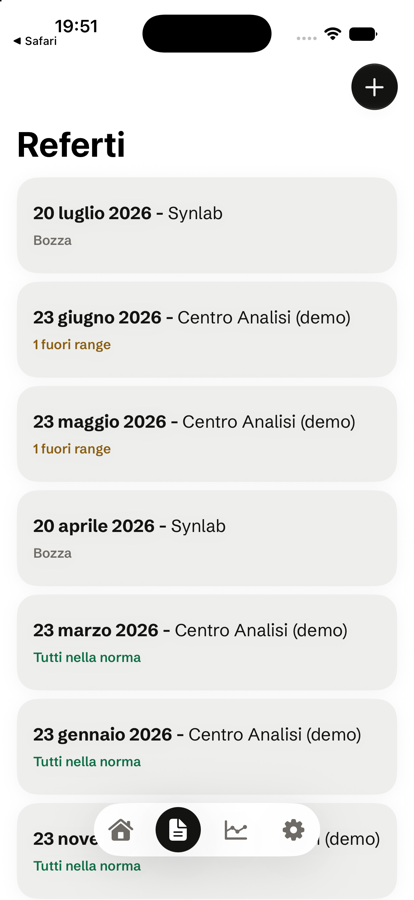
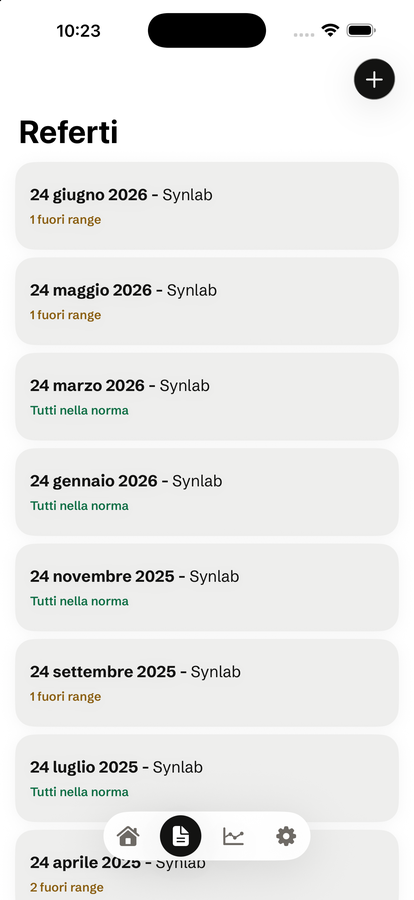
Fix mobile navbar overlap + adopt Quillino's device frame
- Nav: theme toggle moves to a fixed FAB on mobile instead of colliding
  with the CTA button; fix hamburger menu (JS/CSS class mismatch meant
  it never opened).
- .device frame: content-box + 5px bezel + fixed border, matching the
  Quillino site instead of the thicker overflow:hidden version.
- Regenerate embedded screenshots with clean mock data (no more "(demo)").

diff --git a/styles.css b/styles.css
@@ -120,6 +120,11 @@ ul, ol { padding: 0; list-style: none; }
   :root:not([data-theme]) .ico-sun { display: block; }
 }
 .nav-toggle { display: none; background: none; border: 0; color: var(--text-primary); cursor: pointer; }
+/* FAB: solo mobile (< 860px) — sul nav-cta stretto il toggle in linea si scontrava con il
+   bottone "Scarica la beta" (fix 2026-07, "la navbar è rotta"). Stesso pattern di Quillino:
+   il toggle inline sparisce sotto la soglia e un secondo bottone identico (`.theme-fab`,
+   marcato in HTML fuori dal nav) prende il suo posto come cerchio flottante in basso a destra. */
+.theme-fab { display: none; }
 
 /* --------------------------------------------------------------- Buttons */
 .btn {
@@ -149,26 +154,26 @@ ul, ol { padding: 0; list-style: none; }
 .hero-reassure { margin-top: 16px; display: flex; align-items: center; gap: 8px; font-size: 14px; color: var(--text-tertiary); }
 .hero-reassure svg { color: var(--accent-green); flex: none; }
 
-/* `overflow: hidden` + immagine assoluta con `inset` (fix "il contenuto esce dagli iphone"):
-   prima l'immagine era un figlio normale al 100%/100% dentro un `.device` a `content-box` con
-   `aspect-ratio` + `padding` insieme — combinazione fragile, alcuni motori calcolano l'altezza
-   del content-box in modo lievemente diverso e lo screenshot sborda oltre la cornice arrotondata.
-   Con `overflow: hidden` sulla cornice nulla può più uscirne, qualunque sia il calcolo esatto. */
+/* Stesso schema del sito Quillino (frame giudicato meglio riuscito): `box-sizing: content-box`
+   contro il reset globale border-box così `aspect-ratio` descrive l'area DENTRO il padding (dove
+   vive lo screenshot) — padding/bordo si aggiungono fuori, niente calcolo bordo/content-box misto
+   che aveva causato "il contenuto esce dagli iphone" nella versione precedente. Bezel sottile
+   (5px, non 10px): un bordo spesso è stato bocciato più volte su Quillino come "troppo chunky".
+   Bordo fisso rgba(255,255,255,0.22) (non da var tema): resta leggibile anche quando lo
+   screenshot dentro è in dark mode e quasi nero quanto la cornice stessa. */
 .device {
-  position: relative;
-  width: 100%; max-width: 280px;
+  position: relative; box-sizing: content-box;
+  width: 100%; max-width: calc(280px - 10px);
   aspect-ratio: 1206 / 2622;
   background: #0b0a0a;
-  border-radius: 44px;
-  border: 1px solid var(--border-strong);
+  border-radius: 44px; padding: 5px;
+  border: 1px solid rgba(255,255,255,0.22);
   box-shadow: var(--shadow-float);
   margin: 0 auto;
-  overflow: hidden;
 }
 .device img {
-  position: absolute; inset: 10px;
-  width: calc(100% - 20px); height: calc(100% - 20px);
-  object-fit: cover; border-radius: 36px;
+  width: 100%; height: 100%;
+  object-fit: cover; border-radius: 40px;
 }
 .hero-media { display: flex; justify-content: center; }
 
@@ -272,6 +277,18 @@ ul, ol { padding: 0; list-style: none; }
   .steps { grid-template-columns: 1fr; }
   .feat-grid { grid-template-columns: 1fr; }
   .nav-links { display: none; }
+  .nav-cta .theme-toggle:not(.theme-fab) { display: none; }
+  .nav-toggle { display: inline-flex; }
+  .theme-fab {
+    display: inline-grid; position: fixed; z-index: 60;
+    right: 18px; bottom: calc(18px + env(safe-area-inset-bottom));
+    width: 52px; height: 52px; box-shadow: var(--shadow-float);
+  }
+  .nav.menu-open .nav-links {
+    display: flex; position: absolute; top: 68px; left: 0; right: 0; flex-direction: column;
+    gap: 4px; padding: 12px 20px 20px; background: var(--bg-primary); border-bottom: 1px solid var(--border-default);
+  }
+  .nav.menu-open .nav-links a { padding: 10px 0; font-size: 17px; }
 }
 
 @media (prefers-reduced-motion: reduce) {

diff --git a/script.js b/script.js
@@ -25,13 +25,16 @@ document.getElementById('year').textContent = new Date().getFullYear();
 
 // ------------------------------------------------------------- Tema chiaro/scuro
 const root = document.documentElement;
-const themeToggle = document.getElementById('themeToggle');
-themeToggle?.addEventListener('click', () => {
+function toggleTheme() {
   const current = root.getAttribute('data-theme') || (matchMedia('(prefers-color-scheme: dark)').matches ? 'dark' : 'light');
   const next = current === 'dark' ? 'light' : 'dark';
   root.setAttribute('data-theme', next);
   try { localStorage.setItem('refertrack-theme', next); } catch (e) {}
-});
+}
+// Due bottoni fisicamente distinti (inline nel nav + FAB fluttuante su mobile, fix 2026-07
+// "la navbar è rotta"): stessa funzione, mai visibili insieme (CSS li alterna per breakpoint).
+document.getElementById('themeToggle')?.addEventListener('click', toggleTheme);
+document.getElementById('themeFab')?.addEventListener('click', toggleTheme);
 
 // ------------------------------------------------------------------ Reveal
 const revealEls = document.querySelectorAll('.reveal');
@@ -63,8 +66,17 @@ document.querySelectorAll('.faq-q').forEach((btn) => {
 
 // ----------------------------------------------------------- Menu mobile
 const navToggle = document.getElementById('navToggle');
+const navEl = document.getElementById('nav');
 navToggle?.addEventListener('click', () => {
   const expanded = navToggle.getAttribute('aria-expanded') === 'true';
   navToggle.setAttribute('aria-expanded', String(!expanded));
-  document.querySelector('.nav-links')?.classList.toggle('open');
+  // Era `.nav-links.open`, una classe che il CSS non leggeva da nessuna parte (il menu mobile
+  // non si apriva mai) — il CSS alterna il dropdown su `.nav.menu-open`, non sul link stesso.
+  navEl?.classList.toggle('menu-open');
+});
+document.querySelectorAll('.nav-links a').forEach((a) => {
+  a.addEventListener('click', () => {
+    navEl?.classList.remove('menu-open');
+    navToggle?.setAttribute('aria-expanded', 'false');
+  });
 });

diff --git a/index.html b/index.html
@@ -235,6 +235,11 @@
   </div>
 </footer>
 
+<button class="theme-toggle theme-fab" id="themeFab" type="button" aria-label="Alterna anteprima chiara/scura">
+  <svg class="ico-moon" width="20" height="20" viewBox="0 0 24 24" fill="none" stroke="currentColor" stroke-width="2" stroke-linecap="round" stroke-linejoin="round"><path d="M21 12.8A9 9 0 1 1 11.2 3 7 7 0 0 0 21 12.8z"/></svg>
+  <svg class="ico-sun" width="20" height="20" viewBox="0 0 24 24" fill="none" stroke="currentColor" stroke-width="2" stroke-linecap="round" stroke-linejoin="round"><circle cx="12" cy="12" r="4"/><path d="M12 2v2M12 20v2M4.9 4.9l1.4 1.4M17.7 17.7l1.4 1.4M2 12h2M20 12h2M4.9 19.1l1.4-1.4M17.7 6.3l1.4-1.4"/></svg>
+</button>
+
 <script src="script.js"></script>
 </body>
 </html>